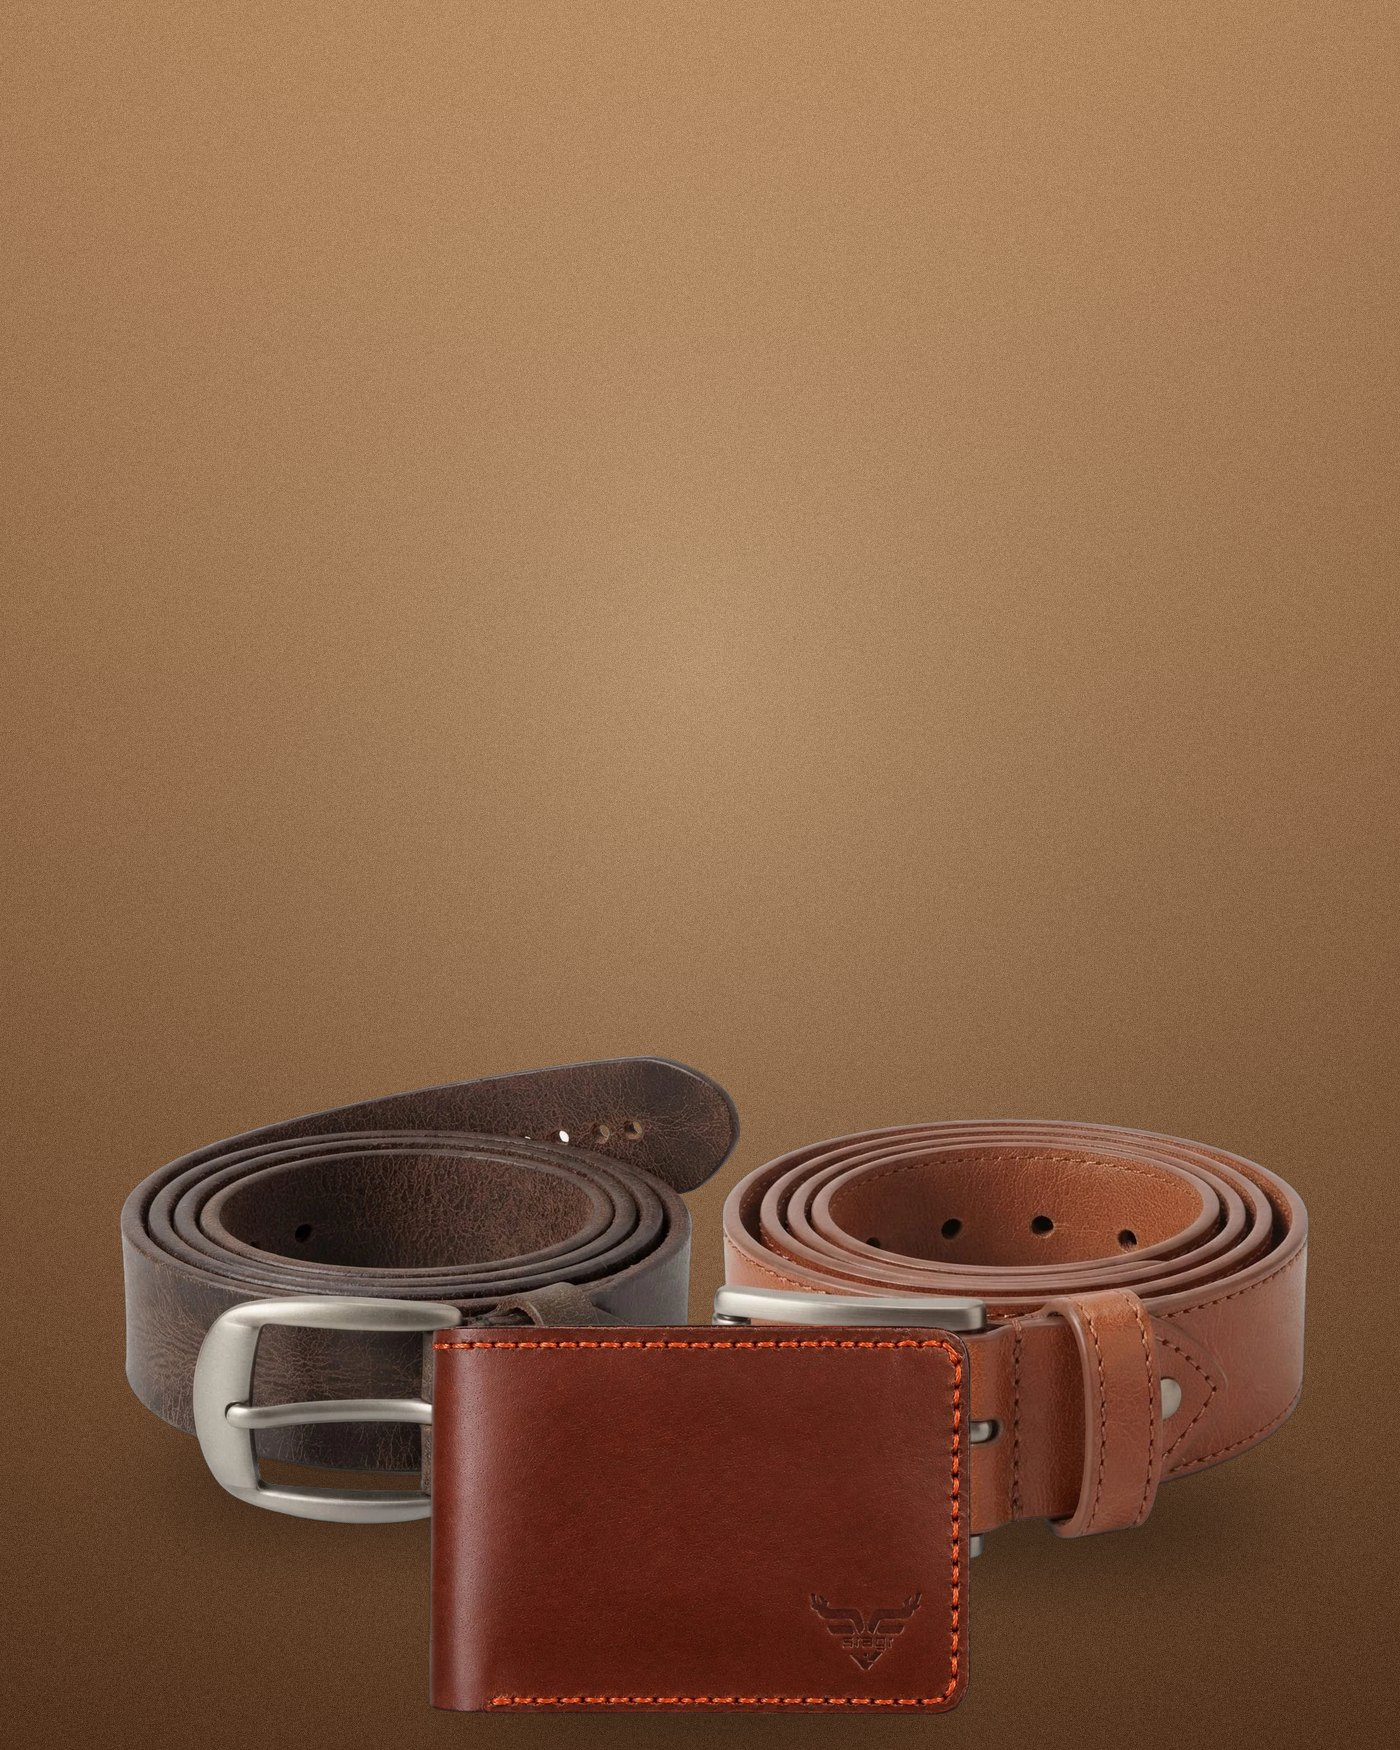
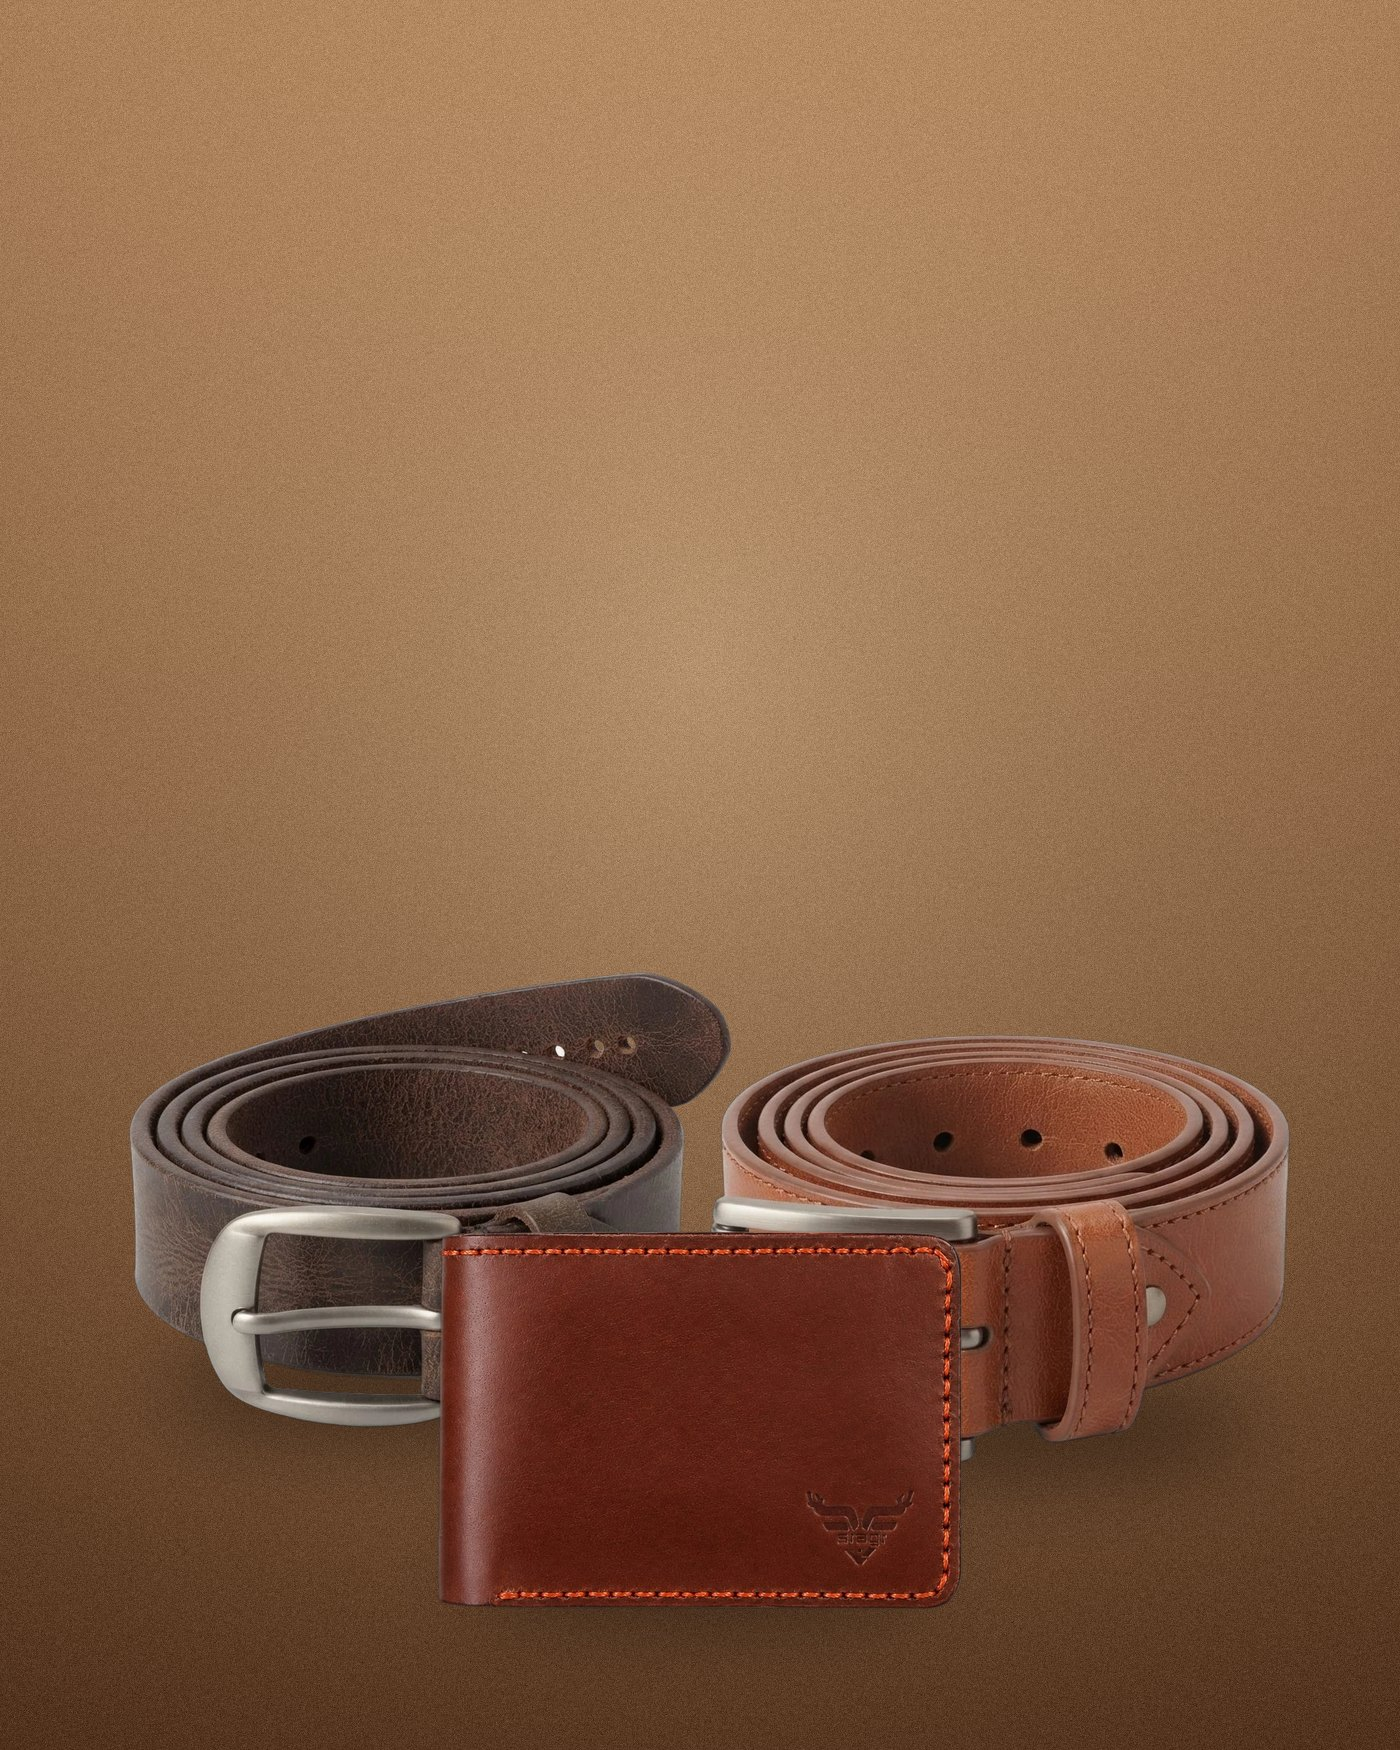
Home hero: workshop photo fills the note tile, main tile keeps its pieces whole
- The editorial tile is now the workshop photo across the whole card with
  a dark wash; label and statement at the top, delivery facts and the
  link at the bottom, nothing clipped.
- The main tile anchors its image to the bottom edge and the pieces sit
  a little higher in the composition, so the wallet is never cut off.
- Phones: the main tile is a touch taller to keep the copy off the pieces.

Claude-Session: https://claude.ai/code/session_01CLwPVwMwmN8S3n6jifWgUp

Changed region(s): [[0.0614, 0.5554, 0.9521, 0.9874]]

diff --git a/new-site/index.html b/new-site/index.html
@@ -546,18 +546,17 @@ html.is-entering .fade { opacity: 1; }
 .tile-link { display: inline-flex; align-items: center; gap: 8px; margin-top: 10px; font-size: .75rem; letter-spacing: .14em; text-transform: uppercase; color: inherit; }
 .tile-link svg { width: 13px; height: 13px; transition: transform .4s var(--ease-out); }
 .tile:hover .tile-link svg { transform: translateX(4px); }
-/* the dark editorial panel */
-.tile-note { background: var(--ink); color: var(--bone); display: grid; gap: 20px; padding: clamp(22px, 3vw, 36px); }
-.tile-note::before { border-color: rgba(239,237,230,.18); }
-.note-line { margin-top: 14px; font-family: var(--font-display); font-weight: 300; font-size: clamp(1.5rem, 1rem + 1.5vw, 2.3rem); line-height: 1.1; }
-.note-facts { margin-top: 18px; display: flex; flex-wrap: wrap; gap: 8px 18px; font-size: .75rem; letter-spacing: .12em; text-transform: uppercase; color: rgba(239,237,230,.62); }
-.note-facts li { position: relative; padding-left: 14px; }
-.note-facts li::before { content: ""; position: absolute; left: 0; top: .45em; width: 6px; height: 6px; border-radius: 50%; background: var(--accent); }
-.note-photo { position: relative; display: block; border-radius: 6px; overflow: hidden; min-height: 150px; }
-.note-photo img { position: absolute; inset: 0; width: 100%; height: 100%; object-fit: cover; transform: scale(1.04); transition: transform 1.2s var(--ease-out); }
-.note-photo:hover img { transform: scale(1.09); }
-.note-photo .tile-link { position: absolute; left: 16px; bottom: 14px; z-index: 2; margin: 0; color: var(--bone); text-shadow: 0 1px 12px rgba(0,0,0,.5); }
+/* the editorial tile: the workshop photo across the whole card, copy over a dark wash */
+.tile-note::after { content: ""; position: absolute; inset: 0; background: linear-gradient(90deg, rgba(26,27,29,.82) 0%, rgba(26,27,29,.62) 45%, rgba(26,27,29,.22) 100%), linear-gradient(0deg, rgba(26,27,29,.45) 0%, rgba(26,27,29,0) 45%); pointer-events: none; }
+.note-copy { inset: clamp(20px, 2.6vw, 32px); right: clamp(20px, 2.6vw, 32px); display: flex; flex-direction: column; justify-content: space-between; gap: 16px; }
+.note-line { margin-top: 10px; max-width: 18ch; font-family: var(--font-display); font-weight: 300; font-size: clamp(1.35rem, .9rem + 1.3vw, 2.1rem); line-height: 1.12; text-shadow: 0 1px 18px rgba(0,0,0,.35); }
+.note-foot { display: flex; flex-wrap: wrap; align-items: flex-end; justify-content: space-between; gap: 10px 20px; }
+.note-facts { display: flex; flex-wrap: wrap; gap: 6px 16px; font-size: .6875rem; letter-spacing: .12em; text-transform: uppercase; color: rgba(239,237,230,.78); }
+.note-facts li { position: relative; padding-left: 13px; white-space: nowrap; }
+.note-facts li::before { content: ""; position: absolute; left: 0; top: .4em; width: 6px; height: 6px; border-radius: 50%; background: var(--accent); }
+.tile-note .tile-link { margin-top: 0; white-space: nowrap; }
 .tile-main { aspect-ratio: 4 / 5; }
+.tile-main img { object-position: 50% 100%; }
 .tile-wallets, .tile-belts { aspect-ratio: 3 / 4; }
 .pair img { position: absolute; height: auto; filter: drop-shadow(0 40px 60px rgba(0,0,0,.45)); }
 .pair .p-belt { left: -6%; top: 2%; width: 78%; transform: rotate(-8deg); }
@@ -565,12 +564,13 @@ html.is-entering .fade { opacity: 1; }
 @media (max-width: 1023px) {
   .bento { grid-template-columns: 1fr 1fr; }
   .tile-main { grid-column: 1 / -1; aspect-ratio: 16 / 10; }
-  .tile-note { grid-column: 1 / -1; grid-template-columns: 1.1fr 1fr; align-items: stretch; }
+  .tile-note { grid-column: 1 / -1; aspect-ratio: 21 / 9; }
 }
 @media (max-width: 639px) {
   .bento { gap: 10px; }
-  .tile-main { aspect-ratio: 4 / 5; }
-  .tile-note { grid-template-columns: 1fr; }
+  .tile-main { aspect-ratio: 3 / 4; }
+.tile-main img { object-position: 50% 100%; }
+  .tile-note { aspect-ratio: 4 / 3; }
   /* the two small tiles: picture on top, copy on a solid band beneath, so nothing overlaps */
   .tile-wallets, .tile-belts { aspect-ratio: auto; display: grid; grid-template-rows: auto auto; }
   .tile-wallets { background: #2A1F18; }
@@ -589,8 +589,7 @@ html.is-entering .fade { opacity: 1; }
   .bento { grid-template-columns: 56fr 22fr 22fr; grid-template-rows: 62fr 38fr; gap: 14px; height: calc(100svh - var(--nav-h) - 32px); min-height: 660px; max-height: 980px; }
   .tile { aspect-ratio: auto !important; }
   .tile-main { grid-row: 1 / 3; }
-  .tile-note { grid-column: 2 / 4; grid-template-columns: 1.15fr 1fr; align-items: stretch; }
-  .note-photo { min-height: 0; }
+  .tile-note { grid-column: 2 / 4; }
 }
 
 /* ---- 02 range (pinned on desktop) ---- */
@@ -793,14 +792,19 @@ html.is-entering .fade { opacity: 1; }
       <img data-tile-img src="assets/hero/tile-belts-800.jpg" srcset="assets/hero/tile-belts-800.jpg 800w, assets/hero/tile-belts.jpg 1050w" sizes="(min-width: 1024px) 22vw, 50vw" alt="Two coiled Stagr belts on a sand backdrop" width="1050" height="1400" decoding="async">
       <div class="tile-copy"><span class="ltag" data-tile-item><i class="rivet"></i>04 styles · 30 to 44</span><h2 class="tile-h2" data-tile-item>Belts<span class="dotc">.</span></h2><span class="tile-link" data-tile-item>Shop the belts <svg class="arrow" viewBox="0 0 24 24" fill="none" stroke="currentColor" stroke-width="1.6" aria-hidden="true"><path d="M5 12h14M13 6l6 6-6 6"/></svg></span></div>
     </a>
-    <div class="tile tile-note on-ink" data-tile>
-      <div class="note-copy">
-        <p class="label" data-tile-item><b style="color:var(--bone)">01</b><span class="slash">/</span>What we hold to</p>
-        <p class="note-line" data-tile-item>One hide. One workshop.<br><span class="serif-i">Nothing else.</span></p>
-        <ul class="note-facts" data-tile-item role="list"><li>Cash on delivery</li><li>3 to 5 days, Pakistan wide</li><li>14-day returns</li></ul>
+    <a class="tile tile-note" href="about.html" data-tile aria-label="The workshop">
+      <img data-tile-img src="assets/lifestyle/kingsmen-flat-800.jpg" srcset="assets/lifestyle/kingsmen-flat-800.jpg 800w, assets/lifestyle/kingsmen-flat.jpg 1600w" sizes="(min-width: 1024px) 44vw, 100vw" alt="Two bifold wallets beside the tools that made them" width="1600" height="1067" decoding="async">
+      <div class="tile-copy note-copy">
+        <div>
+          <p class="label" data-tile-item><b style="color:var(--bone)">01</b><span class="slash">/</span>What we hold to</p>
+          <p class="note-line" data-tile-item>One hide. One workshop. <span class="serif-i">Nothing else.</span></p>
+        </div>
+        <div class="note-foot" data-tile-item>
+          <ul class="note-facts" role="list"><li>Cash on delivery</li><li>3 to 5 days, Pakistan wide</li><li>14-day returns</li></ul>
+          <span class="tile-link">The workshop <svg class="arrow" viewBox="0 0 24 24" fill="none" stroke="currentColor" stroke-width="1.6" aria-hidden="true"><path d="M5 12h14M13 6l6 6-6 6"/></svg></span>
+        </div>
       </div>
-      <a class="note-photo" href="about.html" aria-label="The workshop" data-tile-item><img src="assets/lifestyle/kingsmen-flat-800.jpg" alt="Two bifold wallets beside the tools that made them" width="800" height="533" loading="lazy"><span class="tile-link">The workshop <svg class="arrow" viewBox="0 0 24 24" fill="none" stroke="currentColor" stroke-width="1.6" aria-hidden="true"><path d="M5 12h14M13 6l6 6-6 6"/></svg></span></a>
-    </div>
+    </a>
   </div>
 </section>
 

diff --git a/new-site/build/pages/index.py b/new-site/build/pages/index.py
@@ -158,18 +158,17 @@ def render(ctx):
 .tile-link { display: inline-flex; align-items: center; gap: 8px; margin-top: 10px; font-size: .75rem; letter-spacing: .14em; text-transform: uppercase; color: inherit; }
 .tile-link svg { width: 13px; height: 13px; transition: transform .4s var(--ease-out); }
 .tile:hover .tile-link svg { transform: translateX(4px); }
-/* the dark editorial panel */
-.tile-note { background: var(--ink); color: var(--bone); display: grid; gap: 20px; padding: clamp(22px, 3vw, 36px); }
-.tile-note::before { border-color: rgba(239,237,230,.18); }
-.note-line { margin-top: 14px; font-family: var(--font-display); font-weight: 300; font-size: clamp(1.5rem, 1rem + 1.5vw, 2.3rem); line-height: 1.1; }
-.note-facts { margin-top: 18px; display: flex; flex-wrap: wrap; gap: 8px 18px; font-size: .75rem; letter-spacing: .12em; text-transform: uppercase; color: rgba(239,237,230,.62); }
-.note-facts li { position: relative; padding-left: 14px; }
-.note-facts li::before { content: ""; position: absolute; left: 0; top: .45em; width: 6px; height: 6px; border-radius: 50%; background: var(--accent); }
-.note-photo { position: relative; display: block; border-radius: 6px; overflow: hidden; min-height: 150px; }
-.note-photo img { position: absolute; inset: 0; width: 100%; height: 100%; object-fit: cover; transform: scale(1.04); transition: transform 1.2s var(--ease-out); }
-.note-photo:hover img { transform: scale(1.09); }
-.note-photo .tile-link { position: absolute; left: 16px; bottom: 14px; z-index: 2; margin: 0; color: var(--bone); text-shadow: 0 1px 12px rgba(0,0,0,.5); }
+/* the editorial tile: the workshop photo across the whole card, copy over a dark wash */
+.tile-note::after { content: ""; position: absolute; inset: 0; background: linear-gradient(90deg, rgba(26,27,29,.82) 0%, rgba(26,27,29,.62) 45%, rgba(26,27,29,.22) 100%), linear-gradient(0deg, rgba(26,27,29,.45) 0%, rgba(26,27,29,0) 45%); pointer-events: none; }
+.note-copy { inset: clamp(20px, 2.6vw, 32px); right: clamp(20px, 2.6vw, 32px); display: flex; flex-direction: column; justify-content: space-between; gap: 16px; }
+.note-line { margin-top: 10px; max-width: 18ch; font-family: var(--font-display); font-weight: 300; font-size: clamp(1.35rem, .9rem + 1.3vw, 2.1rem); line-height: 1.12; text-shadow: 0 1px 18px rgba(0,0,0,.35); }
+.note-foot { display: flex; flex-wrap: wrap; align-items: flex-end; justify-content: space-between; gap: 10px 20px; }
+.note-facts { display: flex; flex-wrap: wrap; gap: 6px 16px; font-size: .6875rem; letter-spacing: .12em; text-transform: uppercase; color: rgba(239,237,230,.78); }
+.note-facts li { position: relative; padding-left: 13px; white-space: nowrap; }
+.note-facts li::before { content: ""; position: absolute; left: 0; top: .4em; width: 6px; height: 6px; border-radius: 50%; background: var(--accent); }
+.tile-note .tile-link { margin-top: 0; white-space: nowrap; }
 .tile-main { aspect-ratio: 4 / 5; }
+.tile-main img { object-position: 50% 100%; }
 .tile-wallets, .tile-belts { aspect-ratio: 3 / 4; }
 .pair img { position: absolute; height: auto; filter: drop-shadow(0 40px 60px rgba(0,0,0,.45)); }
 .pair .p-belt { left: -6%; top: 2%; width: 78%; transform: rotate(-8deg); }
@@ -177,12 +176,13 @@ def render(ctx):
 @media (max-width: 1023px) {
   .bento { grid-template-columns: 1fr 1fr; }
   .tile-main { grid-column: 1 / -1; aspect-ratio: 16 / 10; }
-  .tile-note { grid-column: 1 / -1; grid-template-columns: 1.1fr 1fr; align-items: stretch; }
+  .tile-note { grid-column: 1 / -1; aspect-ratio: 21 / 9; }
 }
 @media (max-width: 639px) {
   .bento { gap: 10px; }
-  .tile-main { aspect-ratio: 4 / 5; }
-  .tile-note { grid-template-columns: 1fr; }
+  .tile-main { aspect-ratio: 3 / 4; }
+.tile-main img { object-position: 50% 100%; }
+  .tile-note { aspect-ratio: 4 / 3; }
   /* the two small tiles: picture on top, copy on a solid band beneath, so nothing overlaps */
   .tile-wallets, .tile-belts { aspect-ratio: auto; display: grid; grid-template-rows: auto auto; }
   .tile-wallets { background: #2A1F18; }
@@ -201,8 +201,7 @@ def render(ctx):
   .bento { grid-template-columns: 56fr 22fr 22fr; grid-template-rows: 62fr 38fr; gap: 14px; height: calc(100svh - var(--nav-h) - 32px); min-height: 660px; max-height: 980px; }
   .tile { aspect-ratio: auto !important; }
   .tile-main { grid-row: 1 / 3; }
-  .tile-note { grid-column: 2 / 4; grid-template-columns: 1.15fr 1fr; align-items: stretch; }
-  .note-photo { min-height: 0; }
+  .tile-note { grid-column: 2 / 4; }
 }
 
 /* ---- 02 range (pinned on desktop) ---- */
@@ -357,14 +356,19 @@ def render(ctx):
       <img data-tile-img src="assets/hero/tile-belts-800.jpg" srcset="assets/hero/tile-belts-800.jpg 800w, assets/hero/tile-belts.jpg 1050w" sizes="(min-width: 1024px) 22vw, 50vw" alt="Two coiled Stagr belts on a sand backdrop" width="1050" height="1400" decoding="async">
       <div class="tile-copy"><span class="ltag" data-tile-item><i class="rivet"></i>04 styles · 30 to 44</span><h2 class="tile-h2" data-tile-item>Belts<span class="dotc">.</span></h2><span class="tile-link" data-tile-item>Shop the belts {I["arrow"]}</span></div>
     </a>
-    <div class="tile tile-note on-ink" data-tile>
-      <div class="note-copy">
-        <p class="label" data-tile-item><b style="color:var(--bone)">01</b><span class="slash">/</span>{B["about"]["valuesTitle"]}</p>
-        <p class="note-line" data-tile-item>One hide. One workshop.<br><span class="serif-i">Nothing else.</span></p>
-        <ul class="note-facts" data-tile-item role="list"><li>Cash on delivery</li><li>3 to 5 days, Pakistan wide</li><li>14-day returns</li></ul>
+    <a class="tile tile-note" href="about.html" data-tile aria-label="The workshop">
+      <img data-tile-img src="assets/lifestyle/kingsmen-flat-800.jpg" srcset="assets/lifestyle/kingsmen-flat-800.jpg 800w, assets/lifestyle/kingsmen-flat.jpg 1600w" sizes="(min-width: 1024px) 44vw, 100vw" alt="Two bifold wallets beside the tools that made them" width="1600" height="1067" decoding="async">
+      <div class="tile-copy note-copy">
+        <div>
+          <p class="label" data-tile-item><b style="color:var(--bone)">01</b><span class="slash">/</span>{B["about"]["valuesTitle"]}</p>
+          <p class="note-line" data-tile-item>One hide. One workshop. <span class="serif-i">Nothing else.</span></p>
+        </div>
+        <div class="note-foot" data-tile-item>
+          <ul class="note-facts" role="list"><li>Cash on delivery</li><li>3 to 5 days, Pakistan wide</li><li>14-day returns</li></ul>
+          <span class="tile-link">The workshop {I["arrow"]}</span>
+        </div>
       </div>
-      <a class="note-photo" href="about.html" aria-label="The workshop" data-tile-item><img src="assets/lifestyle/kingsmen-flat-800.jpg" alt="Two bifold wallets beside the tools that made them" width="800" height="533" loading="lazy"><span class="tile-link">The workshop {I["arrow"]}</span></a>
-    </div>
+    </a>
   </div>
 </section>
 

diff --git a/new-site/build/tiles.py b/new-site/build/tiles.py
@@ -53,9 +53,9 @@ def save(canvas, name):
 # main tile: saddle-tan sweep, two belts and a wallet low in the frame (portrait 4:5)
 W, H = 1400, 1750
 c = backdrop(W, H, (176, 132, 92), (84, 52, 30), glow=(222, 190, 150), glow_at=(0.5, 0.38), glow_r=0.8)
-place(c, "outlaw-1", 430, 1290, 660)
-place(c, "monarch-1", 1010, 1340, 640)
-place(c, "kingsmann-brown-1", 700, 1520, 580)
+place(c, "outlaw-1", 430, 1200, 640)
+place(c, "monarch-1", 1000, 1250, 620)
+place(c, "kingsmann-brown-1", 700, 1420, 560)
 save(c, "tile-main")
 
 # wallets tile: dark coffee, warm rim light from above (portrait 3:4)
